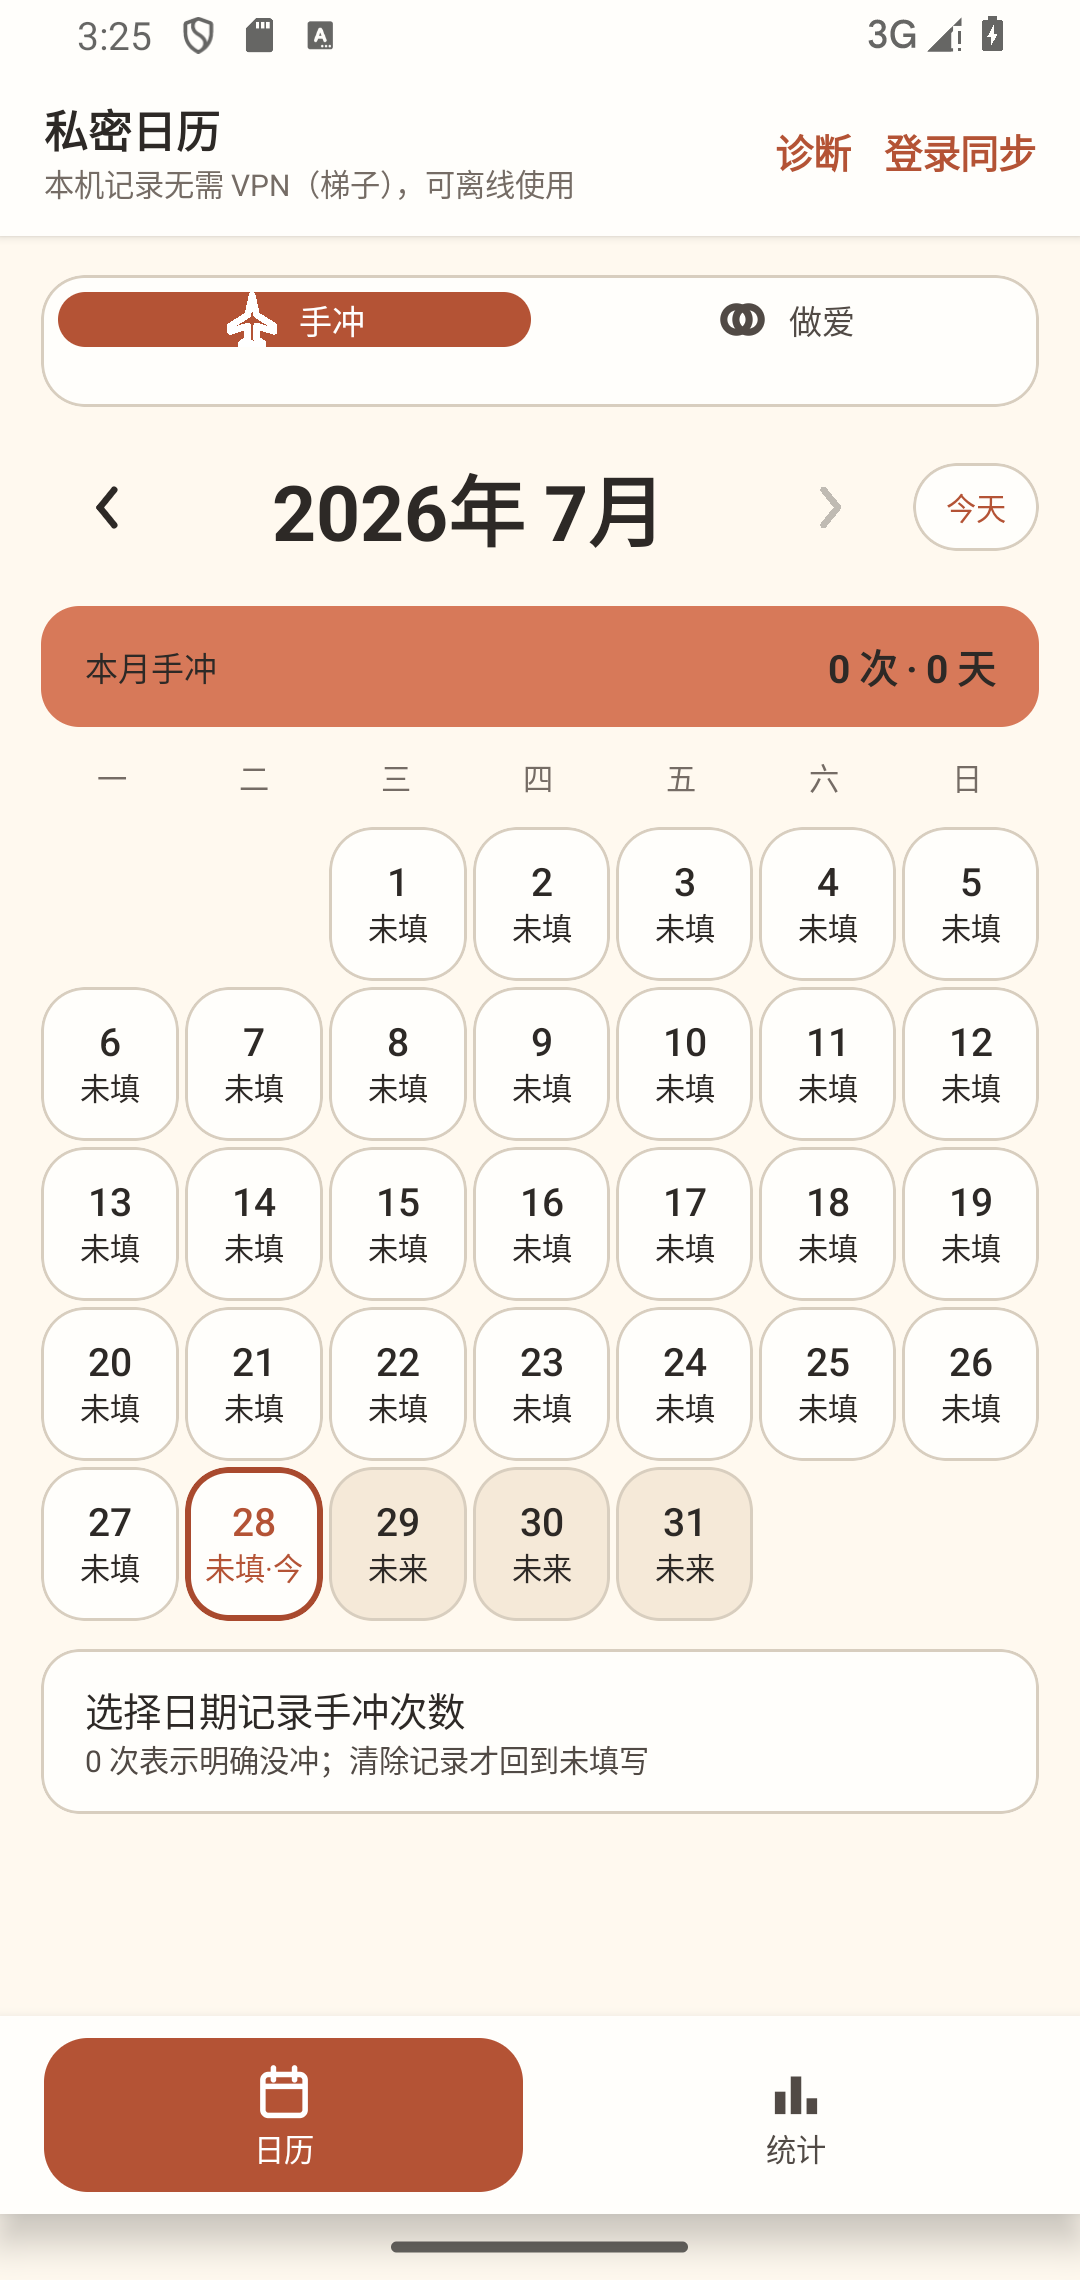
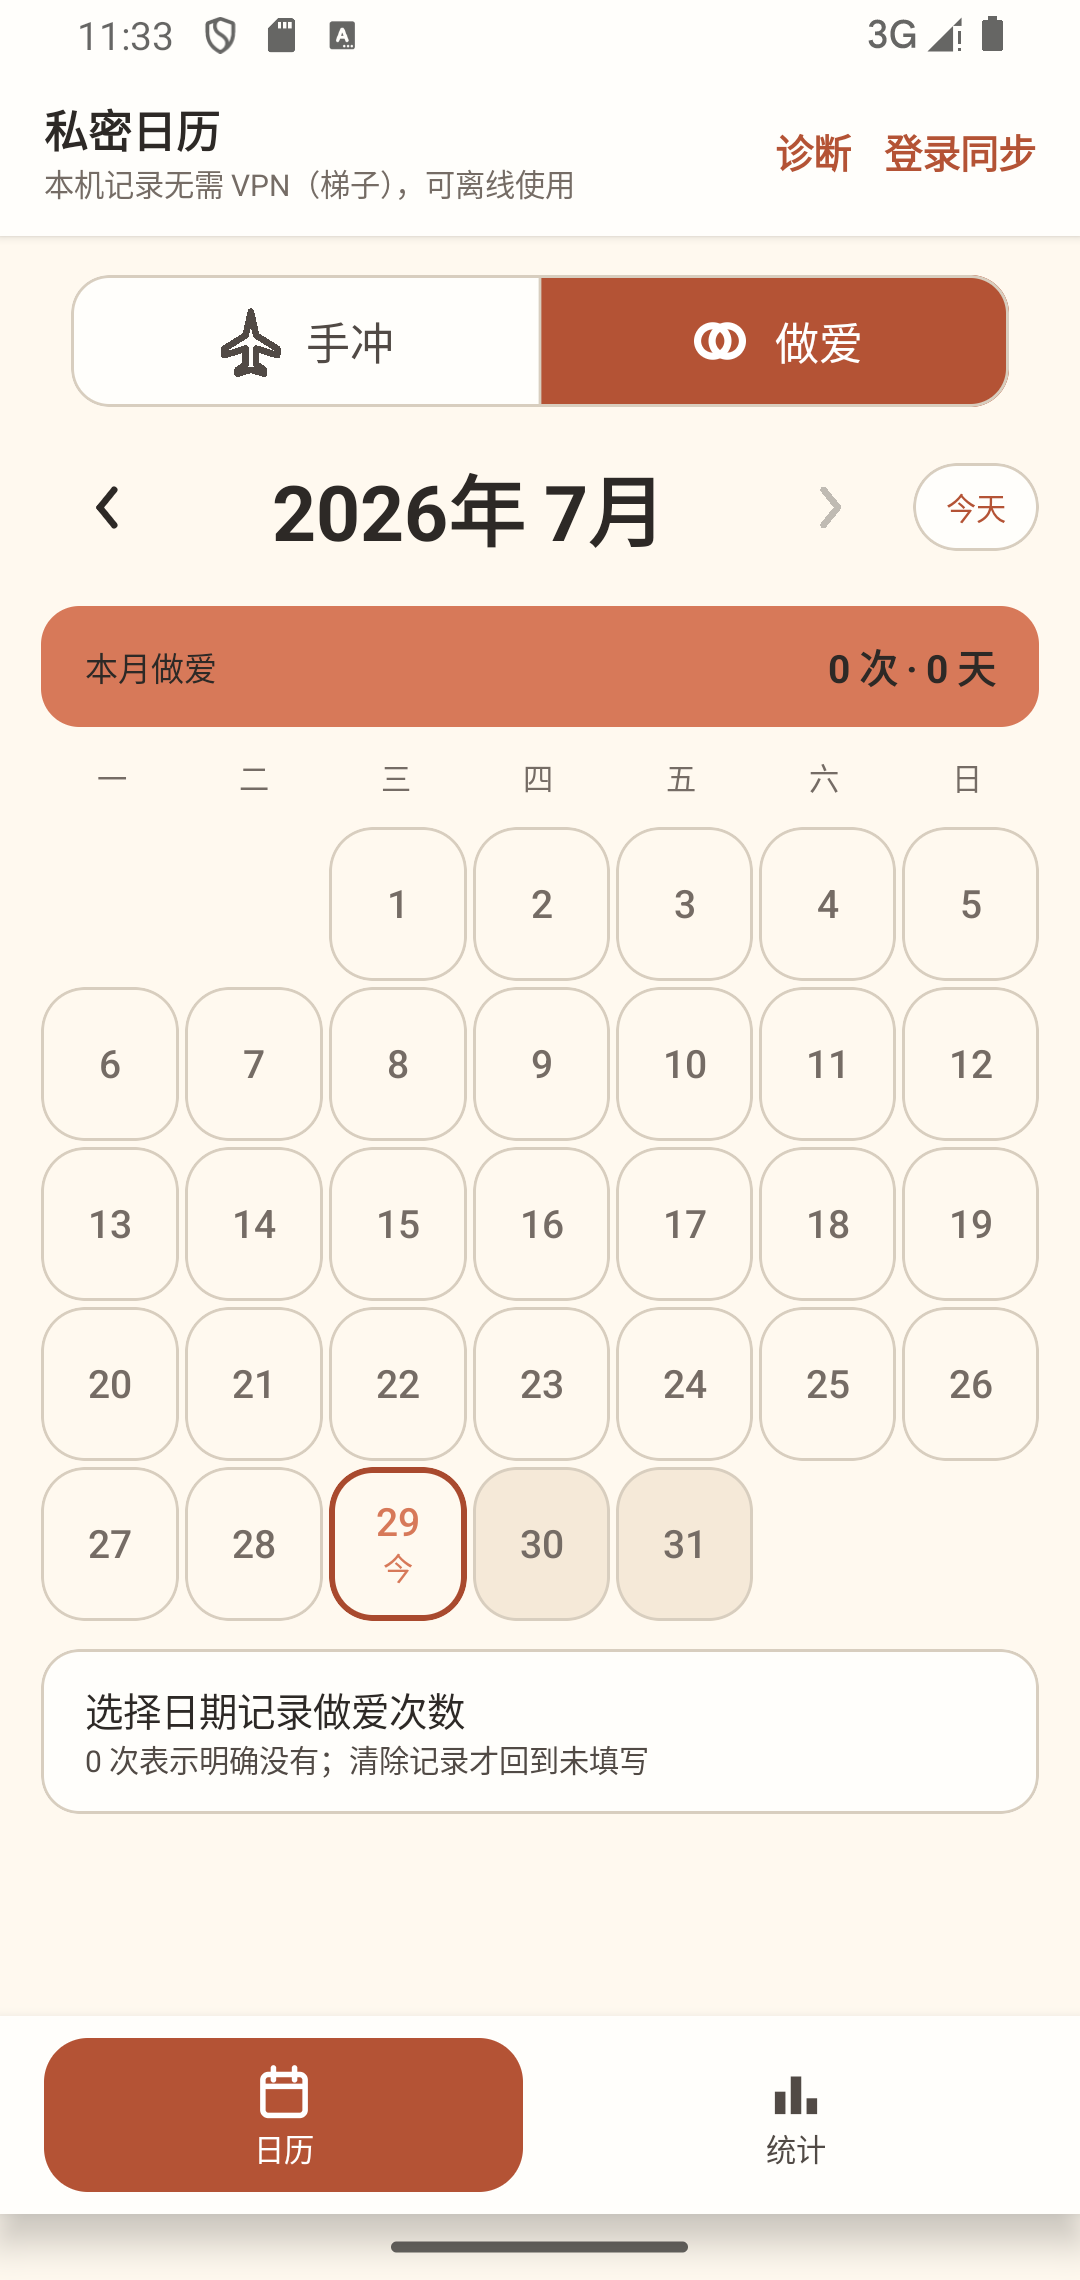
Simplify empty calendar day states

diff --git a/app/src/main/java/io/github/litaog/dailyrecord/ui/calendar/CalendarScreen.kt b/app/src/main/java/io/github/litaog/dailyrecord/ui/calendar/CalendarScreen.kt
@@ -48,6 +48,7 @@ import io.github.litaog.dailyrecord.ui.theme.Ink700
 import io.github.litaog.dailyrecord.ui.theme.Ink900
 import io.github.litaog.dailyrecord.ui.theme.Neutral300
 import io.github.litaog.dailyrecord.ui.theme.Paper0
+import io.github.litaog.dailyrecord.ui.theme.Paper50
 import io.github.litaog.dailyrecord.ui.theme.Paper100
 import io.github.litaog.dailyrecord.ui.theme.Terracotta400
 import io.github.litaog.dailyrecord.ui.theme.Terracotta500
@@ -322,25 +323,30 @@ private fun CalendarDayCell(
     val count = record?.count
     val background = when {
         unsupported || future -> Paper100
-        record == null -> Paper0
+        record == null -> Paper50
         count == 0 -> Neutral300
         count == 1 -> Terracotta400
         count == 2 -> Terracotta500
         else -> Terracotta600
     }
     val contentColor = when {
+        unsupported || future || record == null -> Ink500
         (count ?: 0) >= 2 -> White
         else -> Ink900
     }
-    val status = when {
+    val recordStatus = when {
         unsupported -> "不可用"
-        future -> "未来"
-        record == null -> "未填"
+        future || record == null -> null
         count == 0 -> "0次"
         count == 1 -> "1次"
         count == 2 -> "2次"
         count in 3..8 -> "${count}次"
         else -> "9+次"
+    }
+    val visibleStatus = when {
+        date == today && record == null -> "今"
+        date == today && !future && !largeText && recordStatus != null -> "$recordStatus·今"
+        else -> recordStatus
     }
     val semanticStatus = when {
         unsupported -> "超出支持范围，不可记录"
@@ -372,17 +378,20 @@ private fun CalendarDayCell(
         horizontalAlignment = Alignment.CenterHorizontally,
         verticalArrangement = Arrangement.Center,
     ) {
+        val dayColor = if (date == today && record == null) Terracotta400 else contentColor
         Text(
             text = date.dayOfMonth.toString(),
-            color = if (date == today && count == null) Terracotta500 else contentColor,
+            color = dayColor,
             style = if (largeText) MaterialTheme.typography.labelMedium else MaterialTheme.typography.labelLarge,
             fontWeight = FontWeight.Medium,
         )
-        Text(
-            text = if (date == today && !future && !largeText) "$status·今" else status,
-            color = if (date == today && count == null) Terracotta500 else contentColor,
-            style = MaterialTheme.typography.labelSmall,
-            maxLines = 1,
-        )
+        visibleStatus?.let { status ->
+            Text(
+                text = status,
+                color = dayColor,
+                style = MaterialTheme.typography.labelSmall,
+                maxLines = 1,
+            )
+        }
     }
 }

diff --git a/app/src/androidTest/java/io/github/litaog/dailyrecord/ui/calendar/CalendarScreenTest.kt b/app/src/androidTest/java/io/github/litaog/dailyrecord/ui/calendar/CalendarScreenTest.kt
@@ -6,6 +6,7 @@ import androidx.compose.ui.test.junit4.v2.createComposeRule
 import androidx.compose.ui.test.onAllNodesWithContentDescription
 import androidx.compose.ui.test.onAllNodesWithText
 import androidx.compose.ui.test.onNodeWithContentDescription
+import androidx.compose.ui.test.onNodeWithText
 import io.github.litaog.dailyrecord.core.model.HandBrewRecord
 import io.github.litaog.dailyrecord.ui.theme.DailyRecordTheme
 import java.time.Instant
@@ -19,7 +20,7 @@ class CalendarScreenTest {
     val composeRule = createComposeRule()
 
     @Test
-    fun explicitZeroAndFutureDateHaveDistinctAccessibleSemantics() {
+    fun compactDayCellsHideEmptyLabelsButKeepAccessibleSemantics() {
         val today = LocalDate.of(2026, 7, 17)
         composeRule.setContent {
             DailyRecordTheme {
@@ -44,6 +45,9 @@ class CalendarScreenTest {
             .onNodeWithContentDescription("2026年7月18日，未来日期，不可记录")
             .assertExists()
             .assertIsNotEnabled()
+        composeRule.onAllNodesWithText("未填").assertCountEquals(0)
+        composeRule.onAllNodesWithText("未来").assertCountEquals(0)
+        composeRule.onNodeWithText("今").assertExists()
     }
 
     @Test

diff --git a/docs/product/audit/2026-07-28-consistency-hardening/README.md b/docs/product/audit/2026-07-28-consistency-hardening/README.md
@@ -46,7 +46,7 @@
 
 ## 截图
 
-- [`01-calendar.png`](01-calendar.png)：局部统一后的双模块日历。
+- [`01-calendar.png`](01-calendar.png)：局部统一后的双模块日历；未填写和未来日期不显示冗余状态字样，改用淡色层级区分，今天仅保留“今”。
 - [`02-statistics-sex.png`](02-statistics-sex.png)：移除重复模块标签后的做爱统计页。
 - [`03-clear-dialog.png`](03-clear-dialog.png)：项目自有清除确认弹窗。
 - [`04-module-selector-equal-halves.png`](04-module-selector-equal-halves.png)：紧凑的单层选择器右侧选中时，颜色与点击范围占满唯一外框的完整半区；控件保持 48dp 最小触控高度并在页面内居中。
